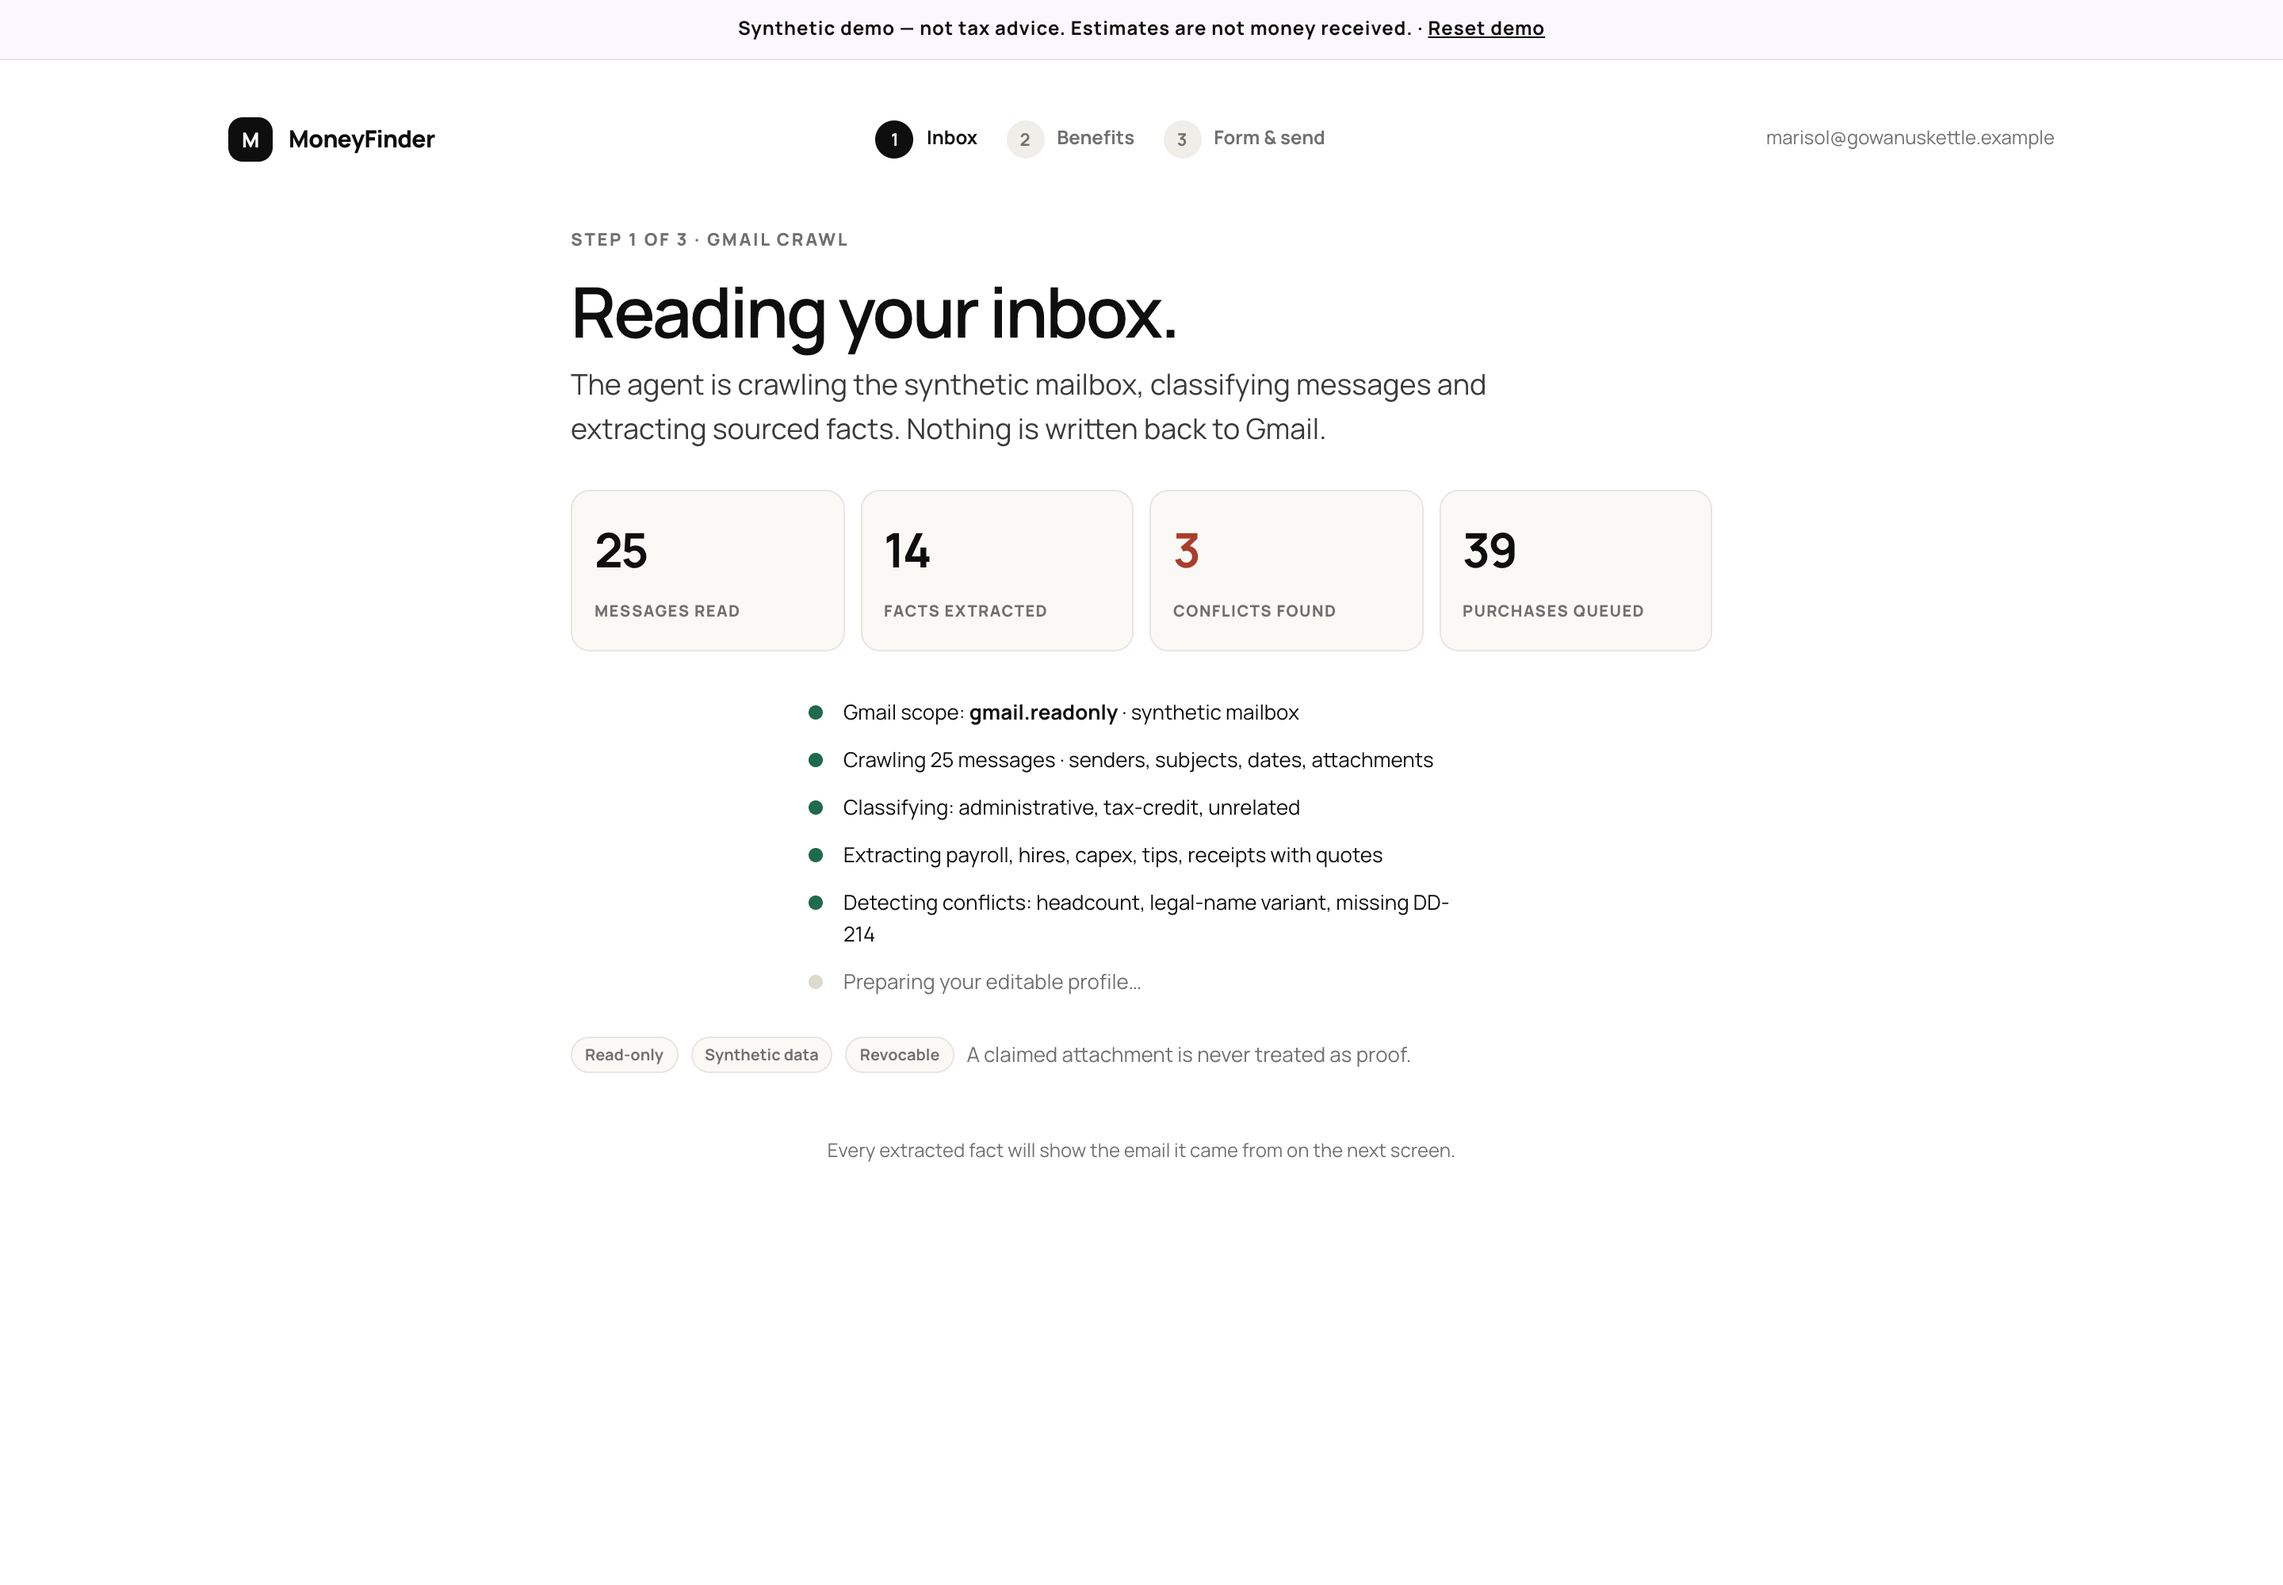
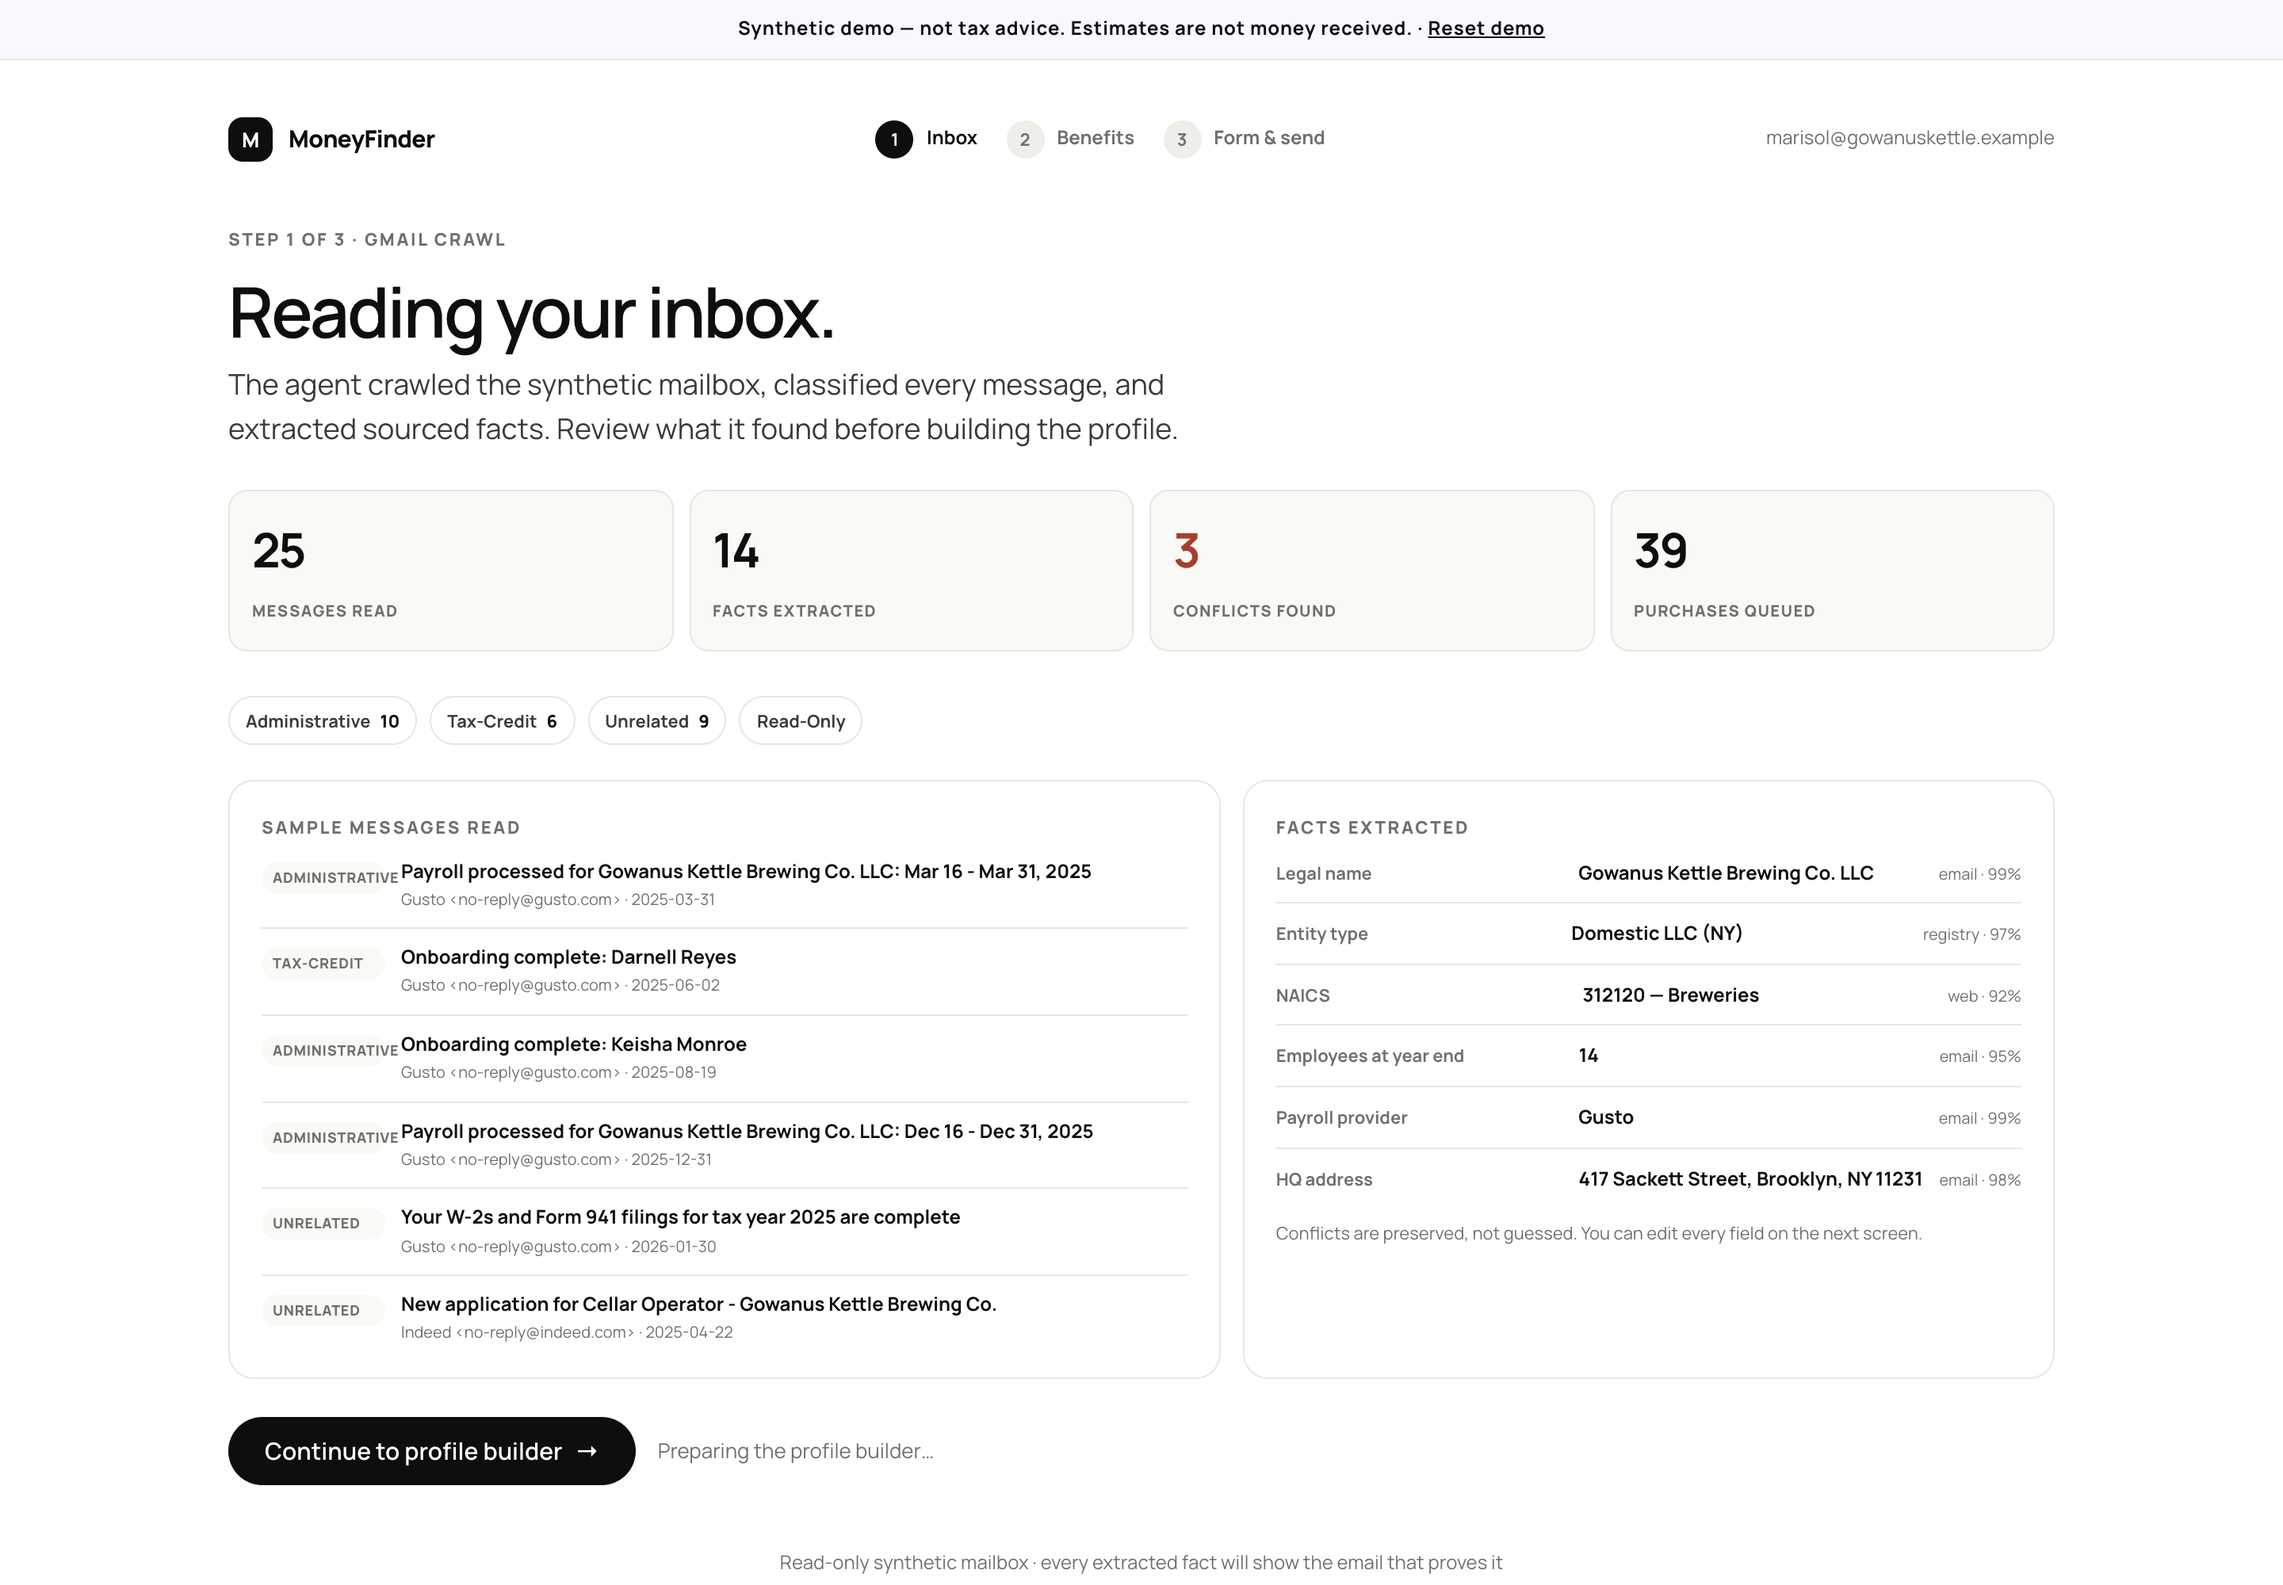
feat(onboarding): restore reviewable Gmail crawler and reset flow on sign-in

diff --git a/app/templates/gmail_crawl.html b/app/templates/gmail_crawl.html
@@ -12,10 +12,10 @@
     <span class="wizard-user">{{ current_user.email }}</span>
   </div>
 
-  <div class="wizard-panel narrow">
+  <div class="wizard-panel">
     <p class="eyebrow">Step 1 of 3 · Gmail crawl</p>
     <h1>Reading your inbox.</h1>
-    <p class="lede">The agent is crawling the synthetic mailbox, classifying messages and extracting sourced facts. Nothing is written back to Gmail.</p>
+    <p class="lede">The agent crawled the synthetic mailbox, classified every message, and extracted sourced facts. Review what it found before building the profile.</p>
 
     <div class="crawl-stats">
       <div><strong>{{ scan.stats.messages }}</strong><span>messages read</span></div>
@@ -24,28 +24,49 @@
       <div><strong>{{ scan.stats.purchases }}</strong><span>purchases queued</span></div>
     </div>
 
-    <ul class="agent-log" id="agent-log">
-      <li class="done">Gmail scope: <b>gmail.readonly</b> · synthetic mailbox</li>
-      <li class="done">Crawling 25 messages · senders, subjects, dates, attachments</li>
-      <li class="done">Classifying: administrative, tax-credit, unrelated</li>
-      <li class="done">Extracting payroll, hires, capex, tips, receipts with quotes</li>
-      <li class="done">Detecting conflicts: headcount, legal-name variant, missing DD-214</li>
-      <li id="last-step">Preparing your editable profile…</li>
-    </ul>
+    <div class="crawl-categories">
+      {% for category, count in scan.stats.categories.items() %}
+      <span class="crawl-chip">{{ category }} <b>{{ count }}</b></span>
+      {% endfor %}
+      <span class="crawl-chip muted">read-only</span>
+    </div>
 
-    <div class="crawl-note">
-      <span class="source-chip">Read-only</span>
-      <span class="source-chip">Synthetic data</span>
-      <span class="source-chip">Revocable</span>
-      <span class="muted">A claimed attachment is never treated as proof.</span>
+    <div class="crawl-columns">
+      <div class="card">
+        <p class="eyebrow">Sample messages read</p>
+        <ul class="crawl-messages">
+          {% for m in scan.messages[:6] %}
+          <li>
+            <span class="crawl-cat">{{ m.category }}</span>
+            <div><strong>{{ m.subject }}</strong><small>{{ m.sender }} · {{ m.date[:10] }}</small></div>
+          </li>
+          {% endfor %}
+        </ul>
+      </div>
+      <div class="card">
+        <p class="eyebrow">Facts extracted</p>
+        <ul class="crawl-facts">
+          {% for f in scan.facts[:6] %}
+          <li><strong>{{ f.label }}</strong><span>{{ f.value }}</span><small>{{ f.source_kind }} · {{ "%.0f"|format(f.confidence*100) }}%</small></li>
+          {% endfor %}
+        </ul>
+        <p class="source-note">Conflicts are preserved, not guessed. You can edit every field on the next screen.</p>
+      </div>
+    </div>
+
+    <div class="crawl-actions">
+      <a class="btn primary" id="crawl-continue" href="{{ url_for('flow.profile_building') }}">Continue to profile builder <span class="arrow">→</span></a>
+      <span class="muted" id="crawl-hint">Preparing the profile builder…</span>
     </div>
     <p class="error" id="load-error" hidden>The crawl could not finish. <a href="{{ url_for('flow.gmail_crawl') }}">Retry</a>.</p>
   </div>
-  <p class="wizard-foot">Every extracted fact will show the email it came from on the next screen.</p>
+  <p class="wizard-foot">Read-only synthetic mailbox · every extracted fact will show the email that proves it</p>
 </section>
 {% endblock %}
 {% block scripts %}
 <script>
-  setTimeout(() => { location.href = '/onboarding/profile-building'; }, 2600);
+  setTimeout(() => {
+    document.getElementById('crawl-hint').textContent = 'Ready — review the crawl or continue.';
+  }, 1600);
 </script>
 {% endblock %}

diff --git a/app/static/css/app.css b/app/static/css/app.css
@@ -595,3 +595,21 @@ select:focus, input:focus { outline: 2px solid var(--ink); outline-offset: 1px; 
 .modal-demo-note code { font-size: 10px; }
 .modal-actions { display: flex; justify-content: flex-end; gap: 10px; flex-wrap: wrap; }
 @media (max-width: 640px) { .modal-card { padding: 24px; } .modal-card h2 { font-size: 25px; } .modal-actions { justify-content: stretch; } .modal-actions .btn, .modal-actions form { flex: 1; } .modal-actions form .btn { width: 100%; } }
+
+/* ---------- Gmail crawl review ---------- */
+.crawl-categories { display: flex; flex-wrap: wrap; gap: 8px; margin: 16px 0 22px; }
+.crawl-chip { display: inline-flex; align-items: center; gap: 6px; padding: 6px 10px; border: 1px solid var(--line); border-radius: 999px; background: #fff; font-size: 11px; font-weight: 700; color: var(--ink-2); text-transform: capitalize; }
+.crawl-chip b { color: var(--ink); }
+.crawl-columns { display: grid; grid-template-columns: 1.1fr .9fr; gap: 14px; margin: 8px 0 24px; }
+.crawl-messages, .crawl-facts { list-style: none; margin: 10px 0 0; padding: 0; display: grid; gap: 10px; }
+.crawl-messages li { display: grid; grid-template-columns: 78px 1fr; gap: 10px; align-items: start; padding-bottom: 10px; border-bottom: 1px solid var(--line); }
+.crawl-messages li:last-child, .crawl-facts li:last-child { border-bottom: 0; padding-bottom: 0; }
+.crawl-messages strong { display: block; font-size: 12px; line-height: 1.35; }
+.crawl-messages small { display: block; font-size: 10px; color: var(--muted); margin-top: 2px; overflow: hidden; text-overflow: ellipsis; white-space: nowrap; }
+.crawl-cat { display: inline-block; padding: 3px 7px; border-radius: 999px; background: var(--wash); color: var(--muted); font-size: 9px; font-weight: 800; text-transform: uppercase; letter-spacing: .04em; margin-top: 2px; }
+.crawl-facts li { display: grid; grid-template-columns: 1fr 1.2fr auto; gap: 8px; align-items: baseline; padding-bottom: 9px; border-bottom: 1px solid var(--line); font-size: 12px; }
+.crawl-facts strong { font-size: 11px; color: var(--muted); }
+.crawl-facts span { font-weight: 700; }
+.crawl-facts small { font-size: 10px; color: var(--muted); text-align: right; }
+.crawl-actions { display: flex; align-items: center; gap: 14px; flex-wrap: wrap; }
+@media (max-width: 900px) { .crawl-columns { grid-template-columns: 1fr; } }

diff --git a/app/routes/flow.py b/app/routes/flow.py
@@ -55,7 +55,8 @@ def signin():
             flash("Enter an email address to continue (demo only).")
             return render_template("signin.html"), 400
         session["user"] = {"email": email, "name": "Marisol Vance"}
-        session.setdefault("onboarding_run_id", f"onboard_{int(time.time())}")
+        session["onboarding_run_id"] = f"onboard_{int(time.time())}"
+        store().start_onboarding()
         nxt = request.args.get("next") or request.form.get("next") or url_for("flow.onboarding")
         return redirect(nxt)
     if current_user():
@@ -111,6 +112,7 @@ def connect():
 @login_required
 def connect_submit():
     s = store()
+    s.start_onboarding()
     s.onboarding["gmail_connected"] = True
     if not session.get("onboarding_run_id"):
         session["onboarding_run_id"] = f"onboard_{int(time.time())}"

diff --git a/app/store.py b/app/store.py
@@ -96,6 +96,22 @@ class Store:
     def benefits(self) -> list[dict]:
         return self.onboarding_fixture.get("benefits", [])
 
+    def start_onboarding(self) -> None:
+        """Fresh sign-in starts at the Gmail permission modal, never mid-flow."""
+        self.onboarding.update({
+            "gmail_connected": False,
+            "gmail_scanned": False,
+            "profile_saved": False,
+            "verification_ready": False,
+            "benefits_ready": False,
+            "selected_benefit": None,
+            "filled_benefit": None,
+            "filled_pdf": None,
+            "filled_field_count": None,
+            "application_id": None,
+        })
+        self._persist()
+
     def mark_gmail_scanned(self) -> None:
         self.onboarding["gmail_scanned"] = True
         self._persist()

diff --git a/tests/test_app.py b/tests/test_app.py
@@ -337,3 +337,14 @@ def test_connect_page_has_permission_modal(client):
     assert page.status_code == 200
     assert b"Allow MoneyFinder to read your Gmail?" in page.data
     assert b"Allow read-only access" in page.data
+
+
+def test_signin_resets_onboarding_to_gmail_start(client, app):
+    login(client)
+    client.post("/onboarding/connect")
+    assert app.extensions["store"].onboarding["gmail_connected"] is True
+    # a fresh sign-in must start at the Gmail permission modal, not mid-flow
+    client.post("/signin", data={"email": "marisol@gowanuskettle.example"})
+    assert app.extensions["store"].onboarding["gmail_connected"] is False
+    r = client.get("/onboarding")
+    assert r.status_code == 302 and "/onboarding/connect" in r.headers["Location"]

diff --git a/scripts/screenshot_flow.py b/scripts/screenshot_flow.py
@@ -38,8 +38,9 @@ with sync_playwright() as p:
 
     page.click("button:has-text('Allow read-only access')", no_wait_after=True)
     page.wait_for_url("**/onboarding/crawl", timeout=15000)
-    page.wait_for_timeout(400)
+    page.wait_for_timeout(900)
     shot(page, "flow-crawl.png")
+    page.click("a:has-text('Continue to profile builder')", no_wait_after=True)
     page.wait_for_url("**/onboarding/profile-building", timeout=15000)
     page.wait_for_timeout(600)
     shot(page, "flow-profile-building.png")
